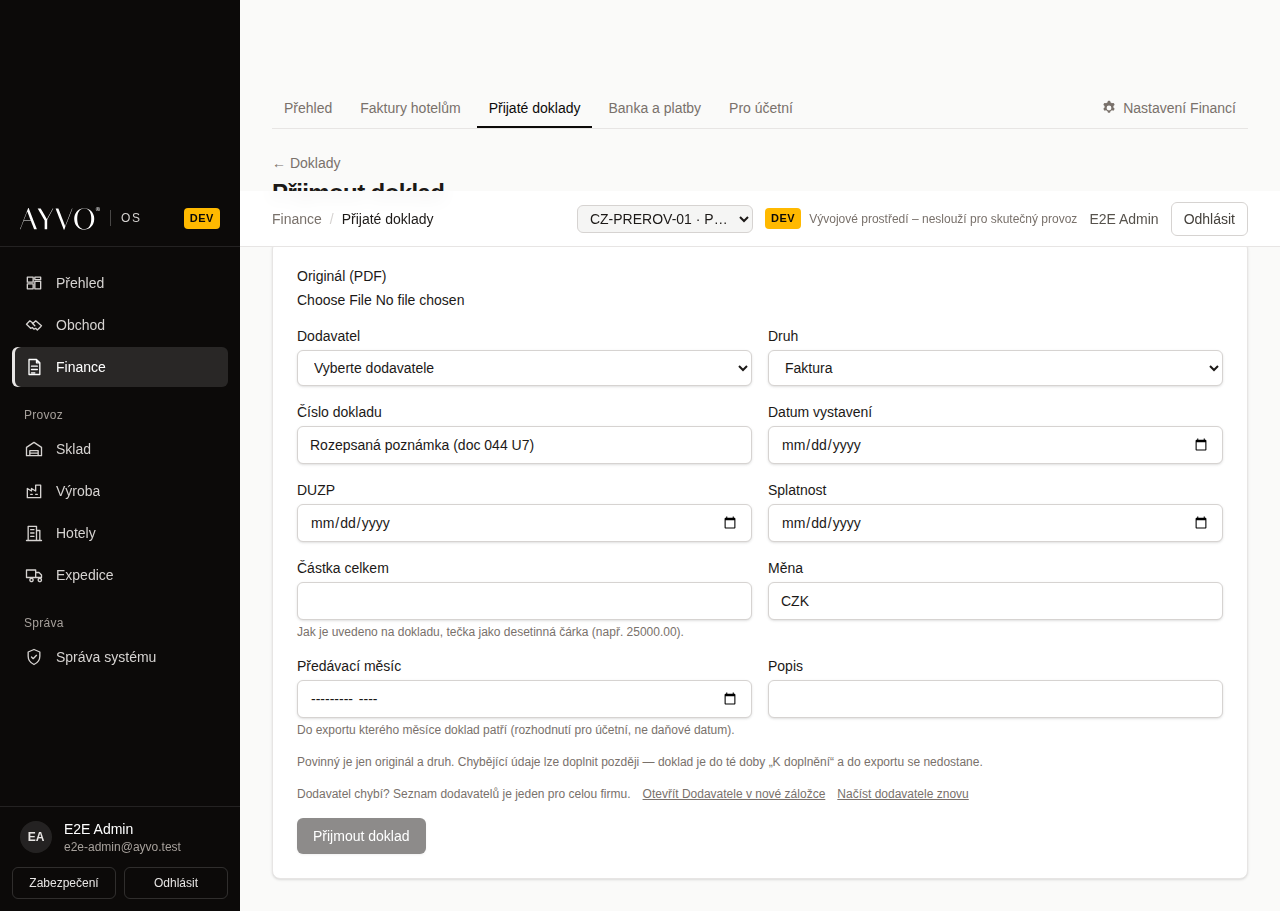
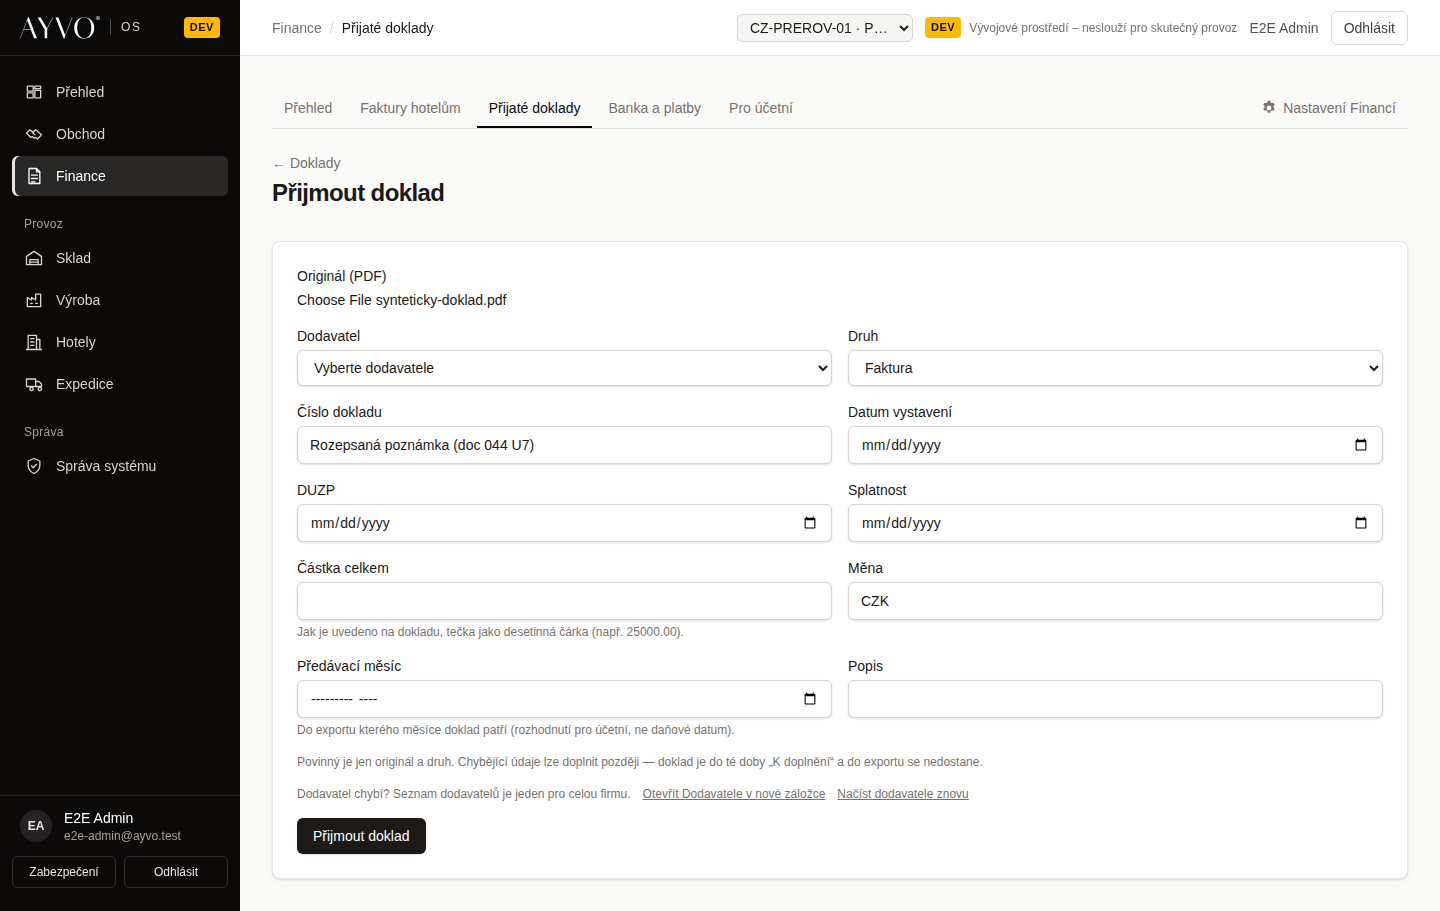
test(finance): the chosen PDF and the note stay at 1440, 390 and 320 (#105 review)

diff --git a/apps/web/e2e/workflow-finance-documents.spec.ts b/apps/web/e2e/workflow-finance-documents.spec.ts
@@ -210,30 +210,55 @@ test.describe('without Finance permissions', () => {
 test.describe('Doklad a dodavatel', () => {
   test.use({ storageState: ADMIN_STATE });
 
-  test('a missing supplier: its register opens beside the unfinished document, which stays', async ({
-    page,
-    context,
-  }) => {
-    await page.goto('/finance/documents/new');
-    const form = page.getByTestId('finance-receive');
-    const note = 'Rozepsaná poznámka (doc 044 U7)';
-    const field = form.locator('[name=number], input:not([type=file])').first();
-    await field.fill(note);
-    const [tab] = await Promise.all([
-      context.waitForEvent('page'),
-      page.getByTestId('receive-open-suppliers').click(),
-    ]);
-    await tab.waitForLoadState();
-    expect(new URL(tab.url()).pathname).toBe('/warehouse/suppliers');
-    await tab.close();
-    await page.getByTestId('receive-refresh-suppliers').click();
-    await expect(field).toHaveValue(note);
-    await page.screenshot({
-      path: resolve(
-        import.meta.dirname,
-        '../../../docs/screenshots/finance/ux7-document-supplier-1440.png',
-      ),
-      fullPage: true,
+  for (const [width, height] of [
+    [1440, 900],
+    [390, 844],
+    [320, 700],
+  ] as const)
+    test(`a missing supplier at ${width}: its register opens beside the unfinished document; note and chosen PDF stay`, async ({
+      page,
+      context,
+    }) => {
+      await page.setViewportSize({ width, height });
+      await page.goto('/finance/documents/new');
+      const form = page.getByTestId('finance-receive');
+      const note = 'Rozepsaná poznámka (doc 044 U7)';
+      const field = form.locator('[name=number], input:not([type=file])').first();
+      await field.fill(note);
+      const file = form.locator('input[type=file]');
+      await file.setInputFiles({
+        name: 'synteticky-doklad.pdf',
+        mimeType: 'application/pdf',
+        buffer: Buffer.from('%PDF-1.4 synteticky doklad'),
+      });
+      const chosen = () =>
+        file.evaluate((input: HTMLInputElement) => {
+          const f = input.files?.[0];
+          return f ? `${f.name}:${f.size}` : null;
+        });
+      const before = await chosen();
+      expect(before).toMatch(/^synteticky-doklad\.pdf:\d+$/);
+      const open = page.getByTestId('receive-open-suppliers');
+      await open.scrollIntoViewIfNeeded();
+      const [tab] = await Promise.all([context.waitForEvent('page'), open.click()]);
+      await tab.waitForLoadState();
+      expect(new URL(tab.url()).pathname).toBe('/warehouse/suppliers');
+      await tab.close();
+      await page.getByTestId('receive-refresh-suppliers').click();
+      await expect(field).toHaveValue(note);
+      expect(await chosen()).toBe(before);
+      // Nothing overflows sideways on a phone.
+      expect(
+        await page.evaluate(
+          () => document.documentElement.scrollWidth <= document.documentElement.clientWidth,
+        ),
+      ).toBe(true);
+      await page.screenshot({
+        path: resolve(
+          import.meta.dirname,
+          `../../../docs/screenshots/finance/ux7-document-supplier-${width}.png`,
+        ),
+        fullPage: true,
+      });
     });
-  });
 });
